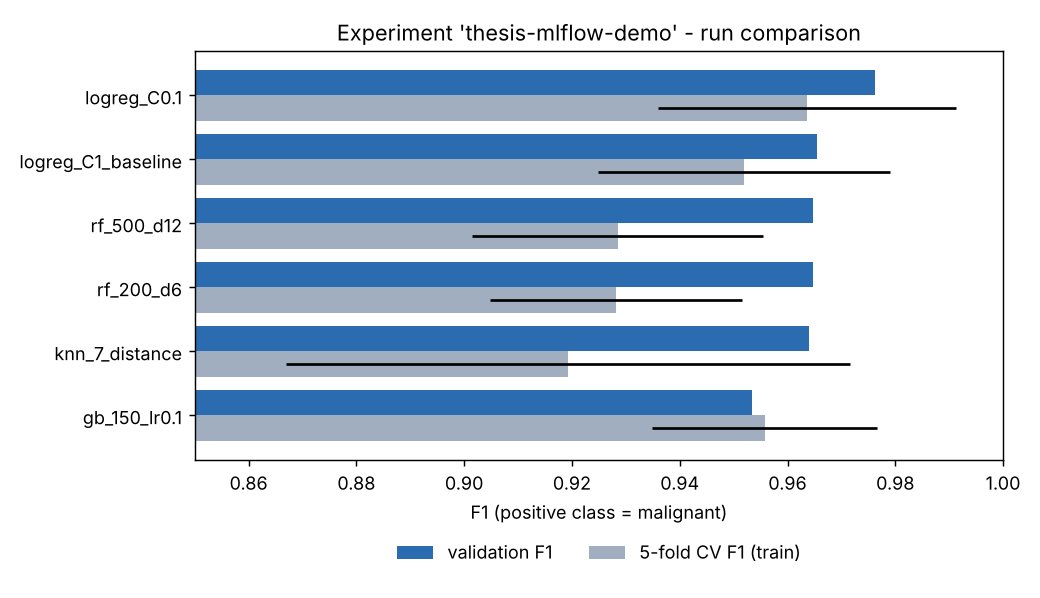
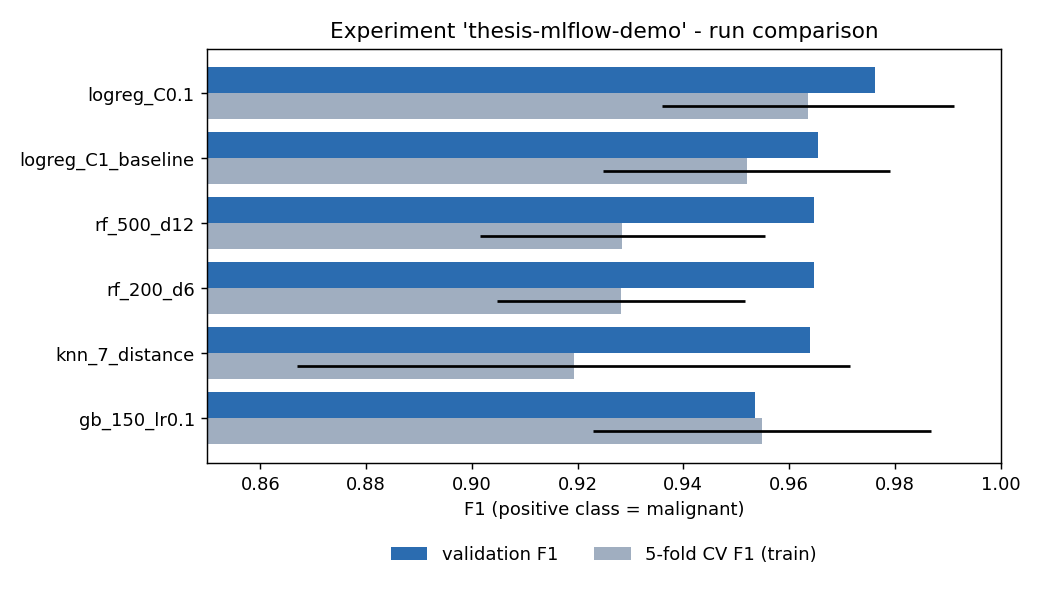
add screenshots, update readme

Changed region(s): [[0.0, 0.0301, 0.9846, 0.8729], [0.3692, 0.903, 0.8, 0.9331], [0.4615, 0.4816, 0.7077, 0.5117]]

diff --git a/README.md b/README.md
@@ -87,11 +87,13 @@ Table from `compare.py` (full version in `reports/runs_comparison.csv`):
 | rf_500_d12 | random forest, 500 trees, depth 12 | 0.965 | 0.953 | 0.976 | 0.993 | 0.929 ± 0.027 | 1.000 |
 | rf_200_d6 | random forest, 200 trees, depth 6 | 0.965 | 0.953 | 0.976 | 0.992 | 0.928 ± 0.023 | 0.996 |
 | knn_7_distance | kNN, k=7 | 0.964 | 0.930 | 1.000 | 0.997 | 0.919 ± 0.052 | 1.000 |
-| gb_150_lr0.1 | gradient boosting, 150 trees | 0.953 | 0.953 | 0.953 | 0.991 | 0.956 ± 0.021 | 1.000 |
+| gb_150_lr0.1 | gradient boosting, 150 trees | 0.953 | 0.953 | 0.953 | 0.991 | 0.955 ± 0.032 | 1.000 |
 
 ![comparison](reports/val_f1_comparison.png)
 
-<!-- ![MLflow UI](reports/mlflow_ui.png) -->
+MLflow UI (runs of the experiment with the main metrics):
+
+![MLflow UI](reports/mlflow_ui.png)
 
 **Best model: `logreg_C0.1`** (logistic regression with stronger regularization).
 It has the best validation F1 and also the best CV F1, so it's not just a lucky split.
@@ -112,6 +114,10 @@ The model is registered as **`wdbc-malignancy-clf`, version 1**, with alias **`@
 The version also has tags with val/test F1, git commit and dataset hash. Results are also saved
 in `reports/registry_result.json`.
 
+Output of `python register.py`:
+
+![register output](reports/register_output.png)
+
 Loading the model:
 
 ```python
@@ -131,9 +137,9 @@ If something fails, it gets `challenger` and the old champion stays. Version 1 p
 
 ## Reproducibility
 
-Best run: **`f27535c007a64aacb0c8c4dd0579b01c`** (`logreg_C0.1`)
+Best run: **`81406673414d41aa83242cb2db629bf7`** (`logreg_C0.1`)
 
-- git commit: `ff182dd`, clean tree (`git_commit` and `git_dirty=false` tags in the run)
+- git commit: `aa311f0`, clean tree (`git_commit` and `git_dirty=false` tags in the run)
 - data: UCI WDBC from sklearn, sha256 `3019c221...efbd12`
 - params: `model=logreg, C=0.1, max_iter=1000, seed=42, val_size=0.2, test_size=0.2`
 - versions: `requirements.txt` (the model artifact also has its own `requirements.txt`)
@@ -142,19 +148,19 @@ Get the params of the run:
 
 ```bash
 export MLFLOW_TRACKING_URI=sqlite:///mlflow.db
-mlflow runs describe --run-id f27535c007a64aacb0c8c4dd0579b01c
+mlflow runs describe --run-id 81406673414d41aa83242cb2db629bf7
 ```
 
 Go to the same code version:
 
 ```bash
-git checkout ff182dd
+git checkout aa311f0
 ```
 
 Retrain with params from the run:
 
 ```bash
-python train.py --config-from-run f27535c007a64aacb0c8c4dd0579b01c
+python train.py --config-from-run 81406673414d41aa83242cb2db629bf7
 ```
 
 or the same thing with normal flags:

diff --git a/reports/runs_comparison.md b/reports/runs_comparison.md
@@ -1,8 +1,8 @@
 | run | run_id | model | val_f1 | val_recall | val_precision | val_auc | cv_f1 | cv_f1_std | train_f1 | gap |
 |---|---|---|---|---|---|---|---|---|---|---|
-| logreg_C0.1 | f27535c0 | logreg | 0.9762 | 0.9535 | 1.0 | 0.9951 | 0.9636 | 0.0276 | 0.9721 | -0.0041 |
-| logreg_C1_baseline | bb9e1530 | logreg | 0.9655 | 0.9767 | 0.9545 | 0.9957 | 0.952 | 0.0271 | 0.984 | 0.0185 |
-| rf_500_d12 | affa47cc | random_forest | 0.9647 | 0.9535 | 0.9762 | 0.9925 | 0.9285 | 0.027 | 1.0 | 0.0353 |
-| rf_200_d6 | 2717449b | random_forest | 0.9647 | 0.9535 | 0.9762 | 0.9921 | 0.9282 | 0.0234 | 0.996 | 0.0313 |
-| knn_7_distance | 84891211 | knn | 0.9639 | 0.9302 | 1.0 | 0.9974 | 0.9193 | 0.0523 | 1.0 | 0.0361 |
-| gb_150_lr0.1 | 7c3c592f | gradient_boosting | 0.9535 | 0.9535 | 0.9535 | 0.9912 | 0.9558 | 0.0209 | 1.0 | 0.0465 |
+| logreg_C0.1 | 81406673 | logreg | 0.9762 | 0.9535 | 1.0 | 0.9951 | 0.9636 | 0.0276 | 0.9721 | -0.0041 |
+| logreg_C1_baseline | c3e72458 | logreg | 0.9655 | 0.9767 | 0.9545 | 0.9957 | 0.952 | 0.0271 | 0.984 | 0.0185 |
+| rf_500_d12 | e218183f | random_forest | 0.9647 | 0.9535 | 0.9762 | 0.9925 | 0.9285 | 0.027 | 1.0 | 0.0353 |
+| rf_200_d6 | 6dd4c069 | random_forest | 0.9647 | 0.9535 | 0.9762 | 0.9921 | 0.9282 | 0.0234 | 0.996 | 0.0313 |
+| knn_7_distance | 5f4b984d | knn | 0.9639 | 0.9302 | 1.0 | 0.9974 | 0.9193 | 0.0523 | 1.0 | 0.0361 |
+| gb_150_lr0.1 | b0b263cc | gradient_boosting | 0.9535 | 0.9535 | 0.9535 | 0.9912 | 0.9549 | 0.032 | 1.0 | 0.0465 |
